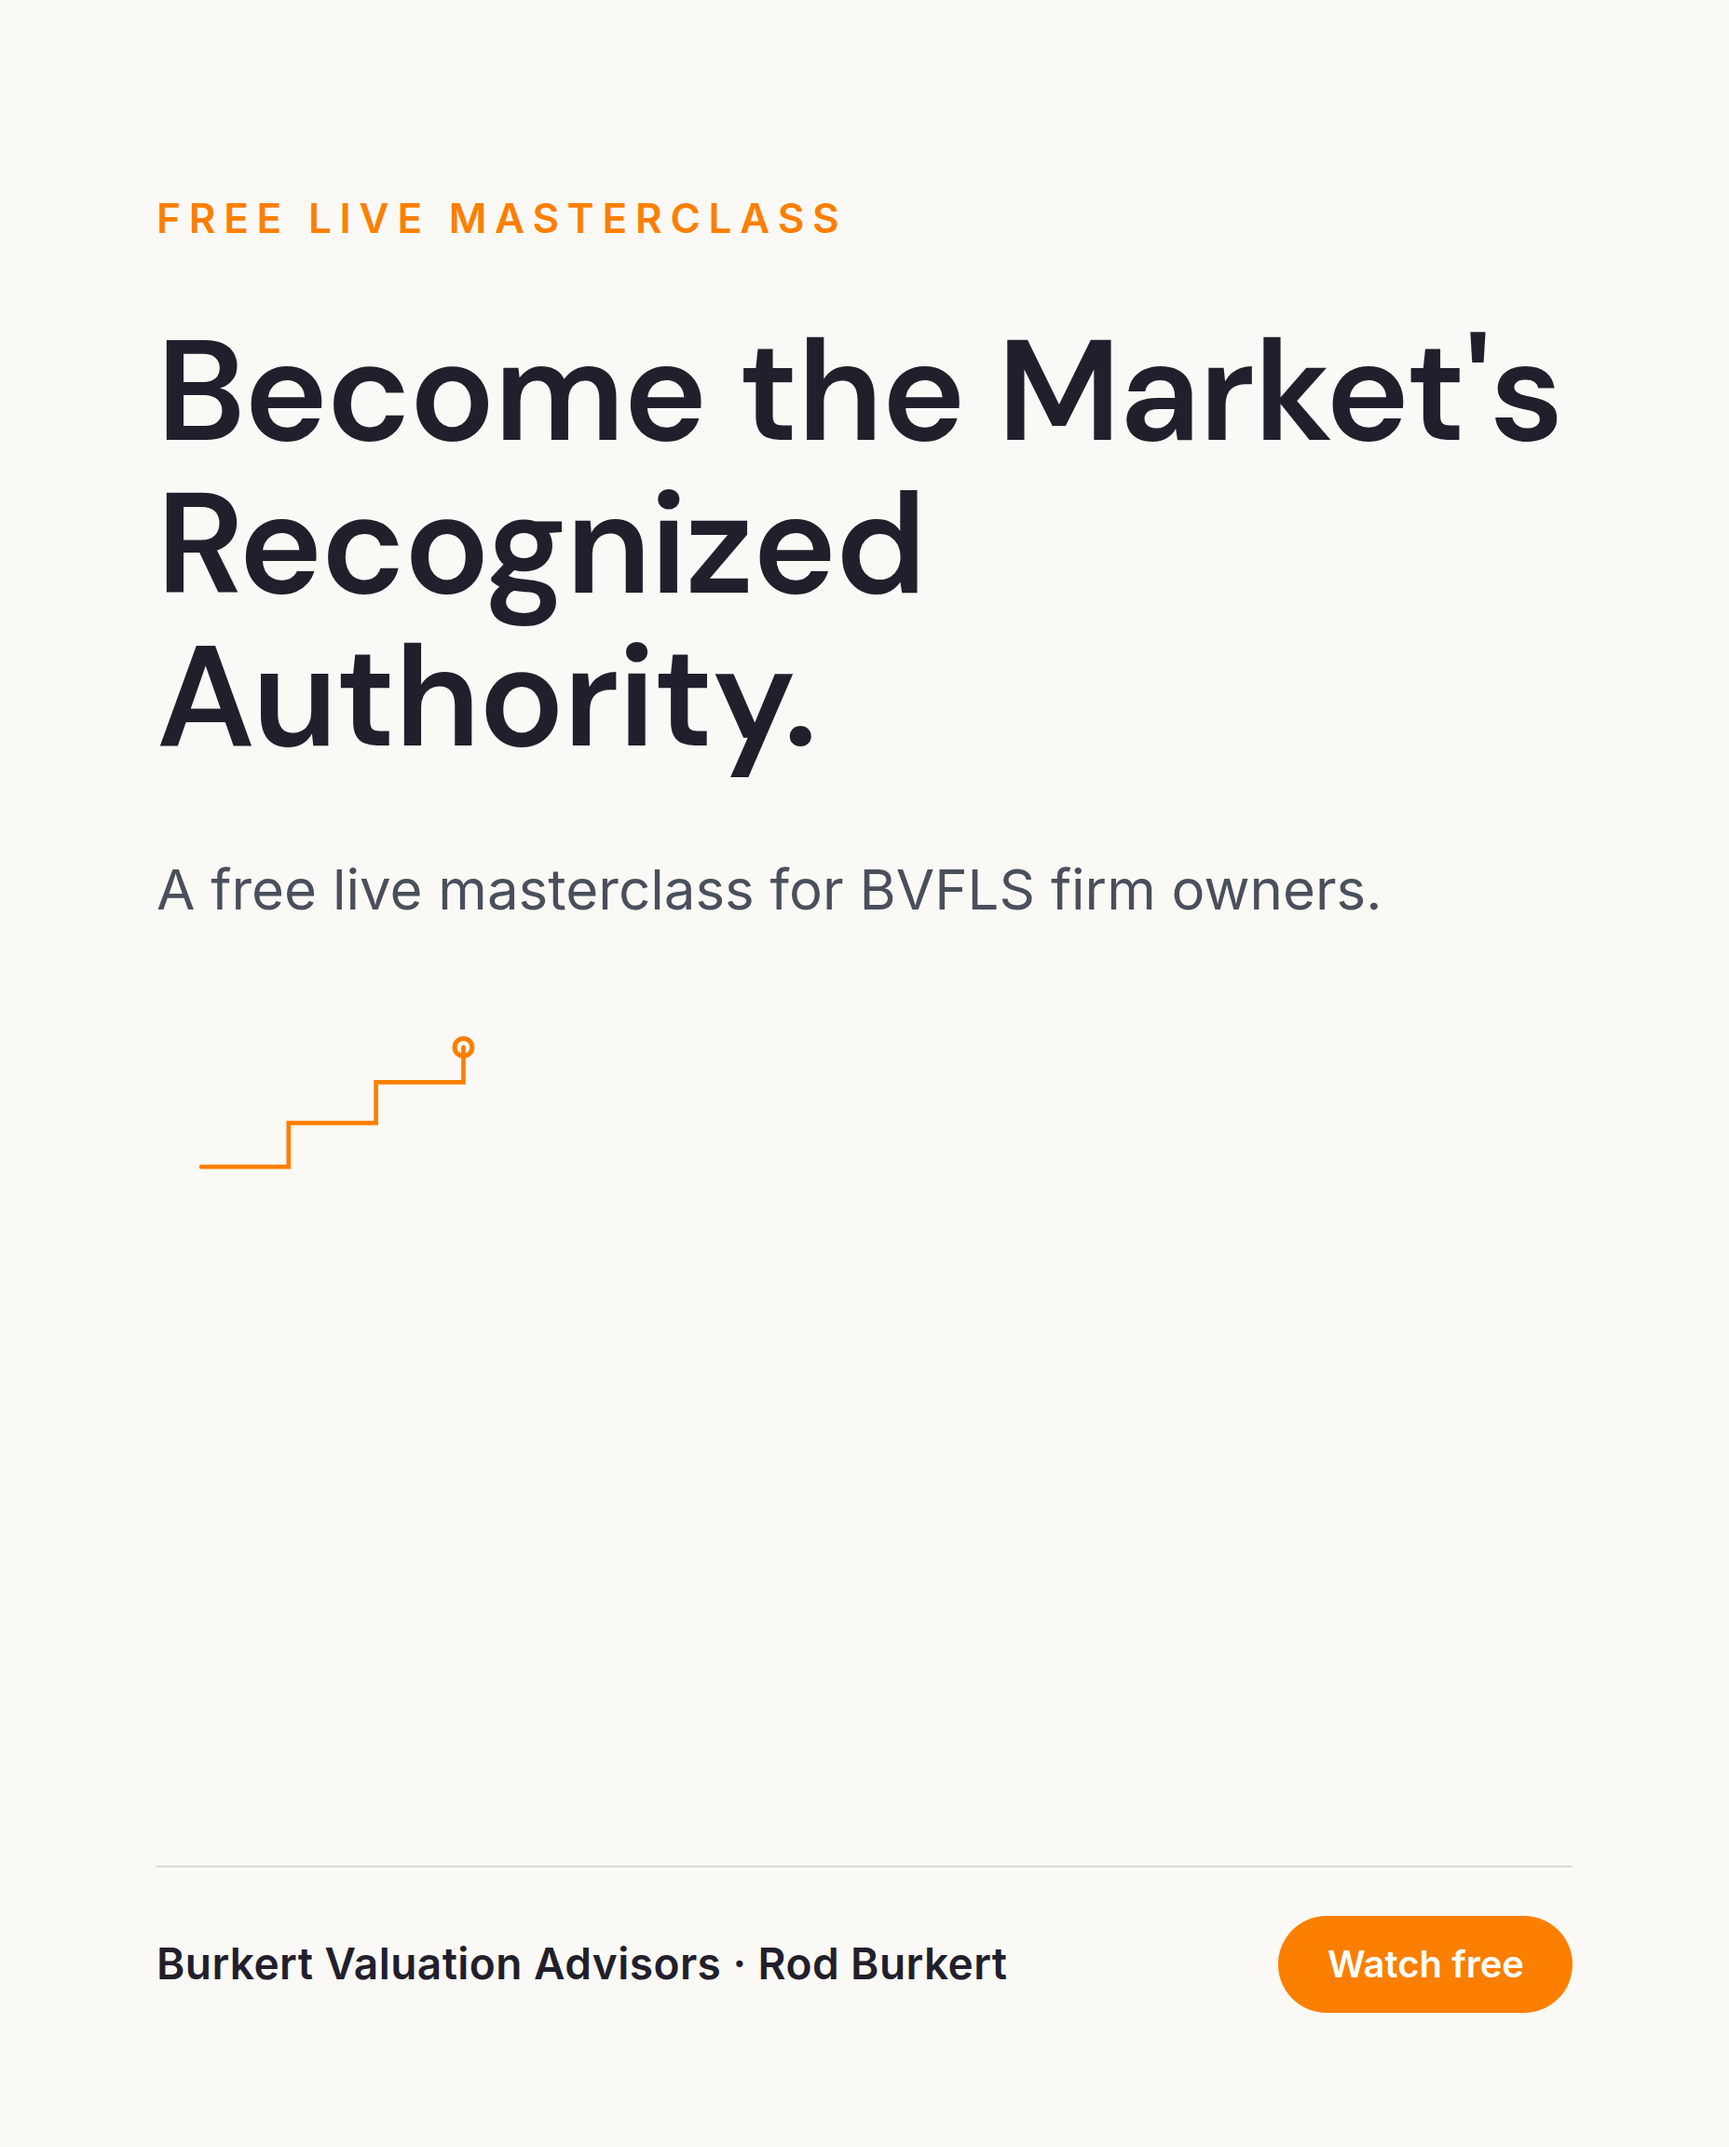
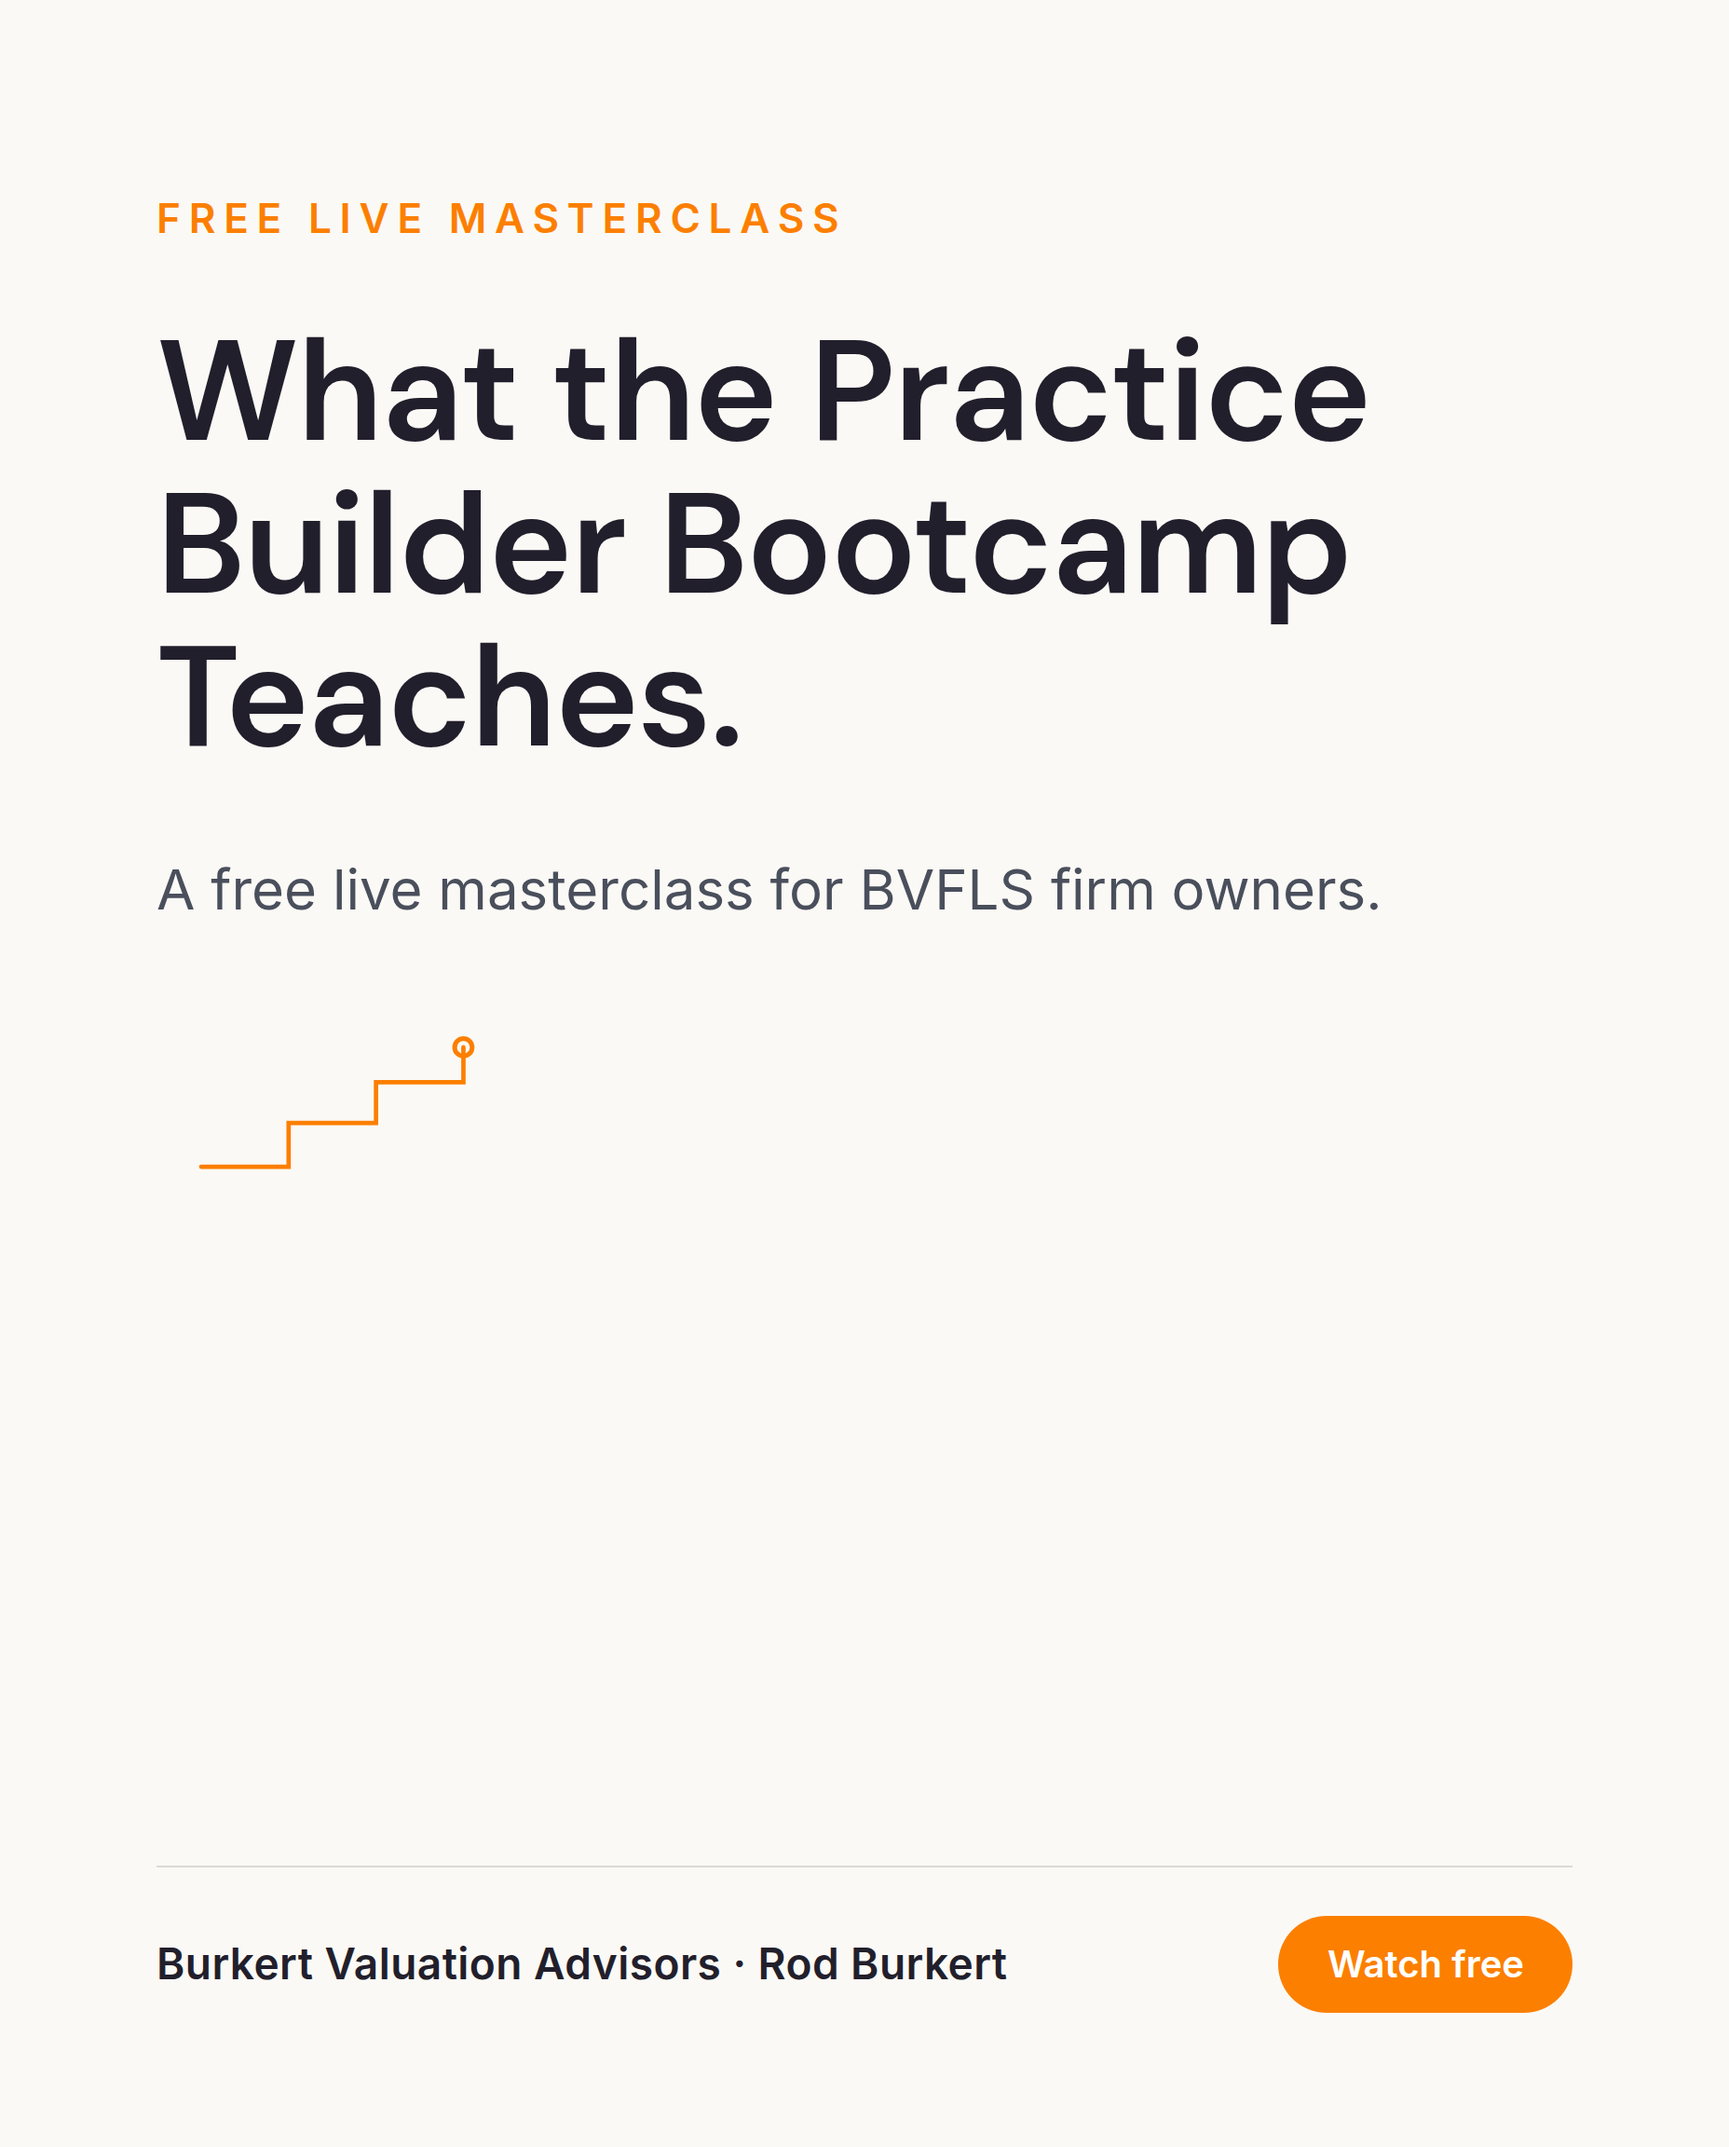
showcase: rod-burkert

Changed region(s): [[0.0938, 0.1562, 0.9062, 0.375]]

diff --git a/rod-burkert/deck.html b/rod-burkert/deck.html
@@ -95,14 +95,14 @@ const S = [
 
  {t:'section',idx:'Part Two',title:'The Authority-Building Method'},
  {t:'normal',k:'Know what to keep',title:'The File Autopsy Toolkit: know which files and clients actually build your name.',body:'A structured look at the work you like doing, the clients you enjoy serving, and how you price it, next to the work you do not like, the clients you do not want, and the pricing mistakes that quietly cap what you are known for.'},
- {t:'normal',k:'Build the authority',title:'The Practice Builder Bootcamp: six sessions built for rainmaker authority.',body:'A structured, six-hour blueprint built specifically to establish the authority of rainmakers running medium and large BVFLS practices. Not generic marketing advice, a method built by a practicing valuator for practicing valuators.'},
+ {t:'normal',k:'Build the authority',title:'The Practice Builder Bootcamp: six sessions built for rainmaker authority.',body:'A structured, six-hour blueprint built specifically to establish rainmaker authority for a BVFLS practice owner. Not generic marketing advice, a method built by a practicing valuator for practicing valuators.'},
  {t:'normal',k:'Know where you stand',title:'The Practice Self-Assessment: find out what is actually holding your visibility back.',body:'A diagnostic covering both the practice and the practitioner, personally reviewed, followed by a short call to walk through what needs attention next.'},
  {t:'dark',title:'Authority is not accidental. It is the outcome of a method, run on purpose.'},
 
  {t:'section',idx:'Part Three',title:'What It Looks Like'},
  {t:'normal',k:'The practice this builds',title:'Referral sources who call you first, not last.',body:'A BVFLS owner known for a specific kind of work, priced right, in front of the right referral sources consistently, instead of hoping the next opportunity finds them.'},
  {t:'dark',title:'The market does not reward the best technician. It rewards the technician everyone already knows.'},
- {t:'normal',k:'Why Rod Burkert',title:'Decades in practice, endorsed by the association itself.',body:'Rod Burkert, CPA/ABV, CVA, has practiced valuation since the late 1980s and run his own firm, Burkert Valuation Advisors, since 2000. His coaching is listed by NACVA on the association’s own member portal as a recommended practice-growth resource for BVFLS firm owners.'},
+ {t:'normal',k:'Why Rod Burkert',title:'Decades in practice, recognized by the association itself.',body:'Rod Burkert, CPA/ABV, CVA, has practiced valuation since the late 1980s and run his own firm, Burkert Valuation Advisors, since 2000. His coaching is listed by NACVA on the association’s own member portal as a recommended practice-growth resource for BVFLS firm owners.'},
 
  {t:'section',idx:'Your Next Step',title:'Turn the Practice You Have Into the Practice You Want'},
  {t:'normal',k:'Start with the assessment',title:'The free Practice Self-Assessment.',body:'A short, personally reviewed diagnostic covering your practice and you, followed by a call to talk through what needs attention first.'},

diff --git a/rod-burkert/index.html b/rod-burkert/index.html
@@ -83,10 +83,10 @@
     <h2>Four directions in your own colors</h2>
     <p>Built from the Practice Self-Assessment, the File Autopsy Toolkit, and the Practice Builder Bootcamp, written to stop a BVFLS firm owner mid-scroll.</p>
     <div class="ad-grid">
-      <img src="/rod-burkert/ad01.png" alt="Concept ad one">
-      <img src="/rod-burkert/ad02.png" alt="Concept ad two">
-      <img src="/rod-burkert/ad03.png" alt="Concept ad three">
-      <img src="/rod-burkert/ad04.png" alt="Concept ad four">
+      <img src="/rod-burkert/ad01.png" alt="Ad: Being great at valuation isn't enough">
+      <img src="/rod-burkert/ad02.png" alt="Ad: Run a File Autopsy on your practice">
+      <img src="/rod-burkert/ad03.png" alt="Ad: Stop being your market's best secret">
+      <img src="/rod-burkert/ad04.png" alt="Ad: What the Practice Builder Bootcamp teaches">
     </div>
   </div>
 
